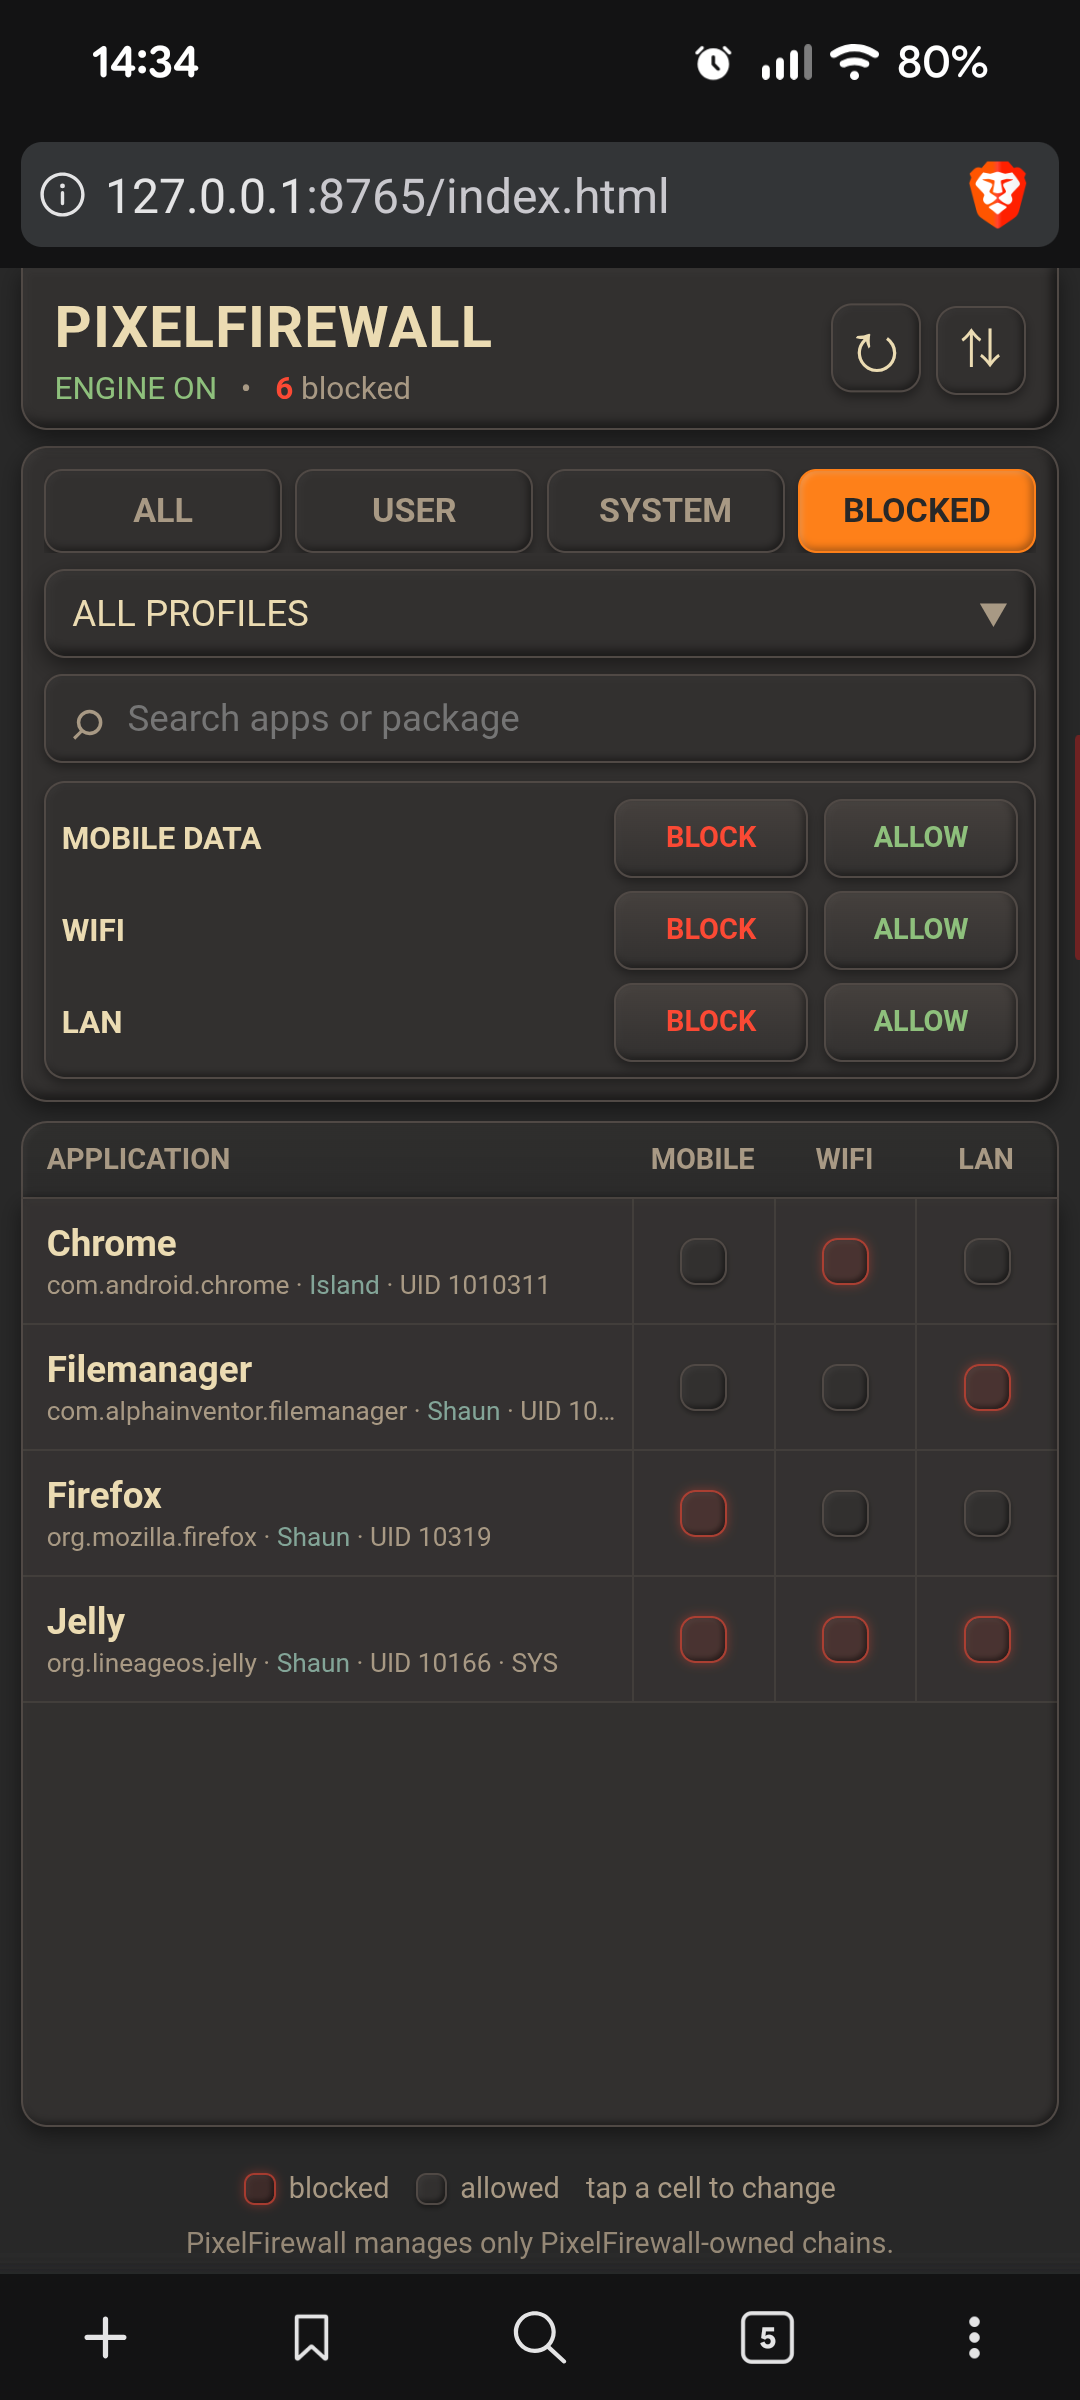
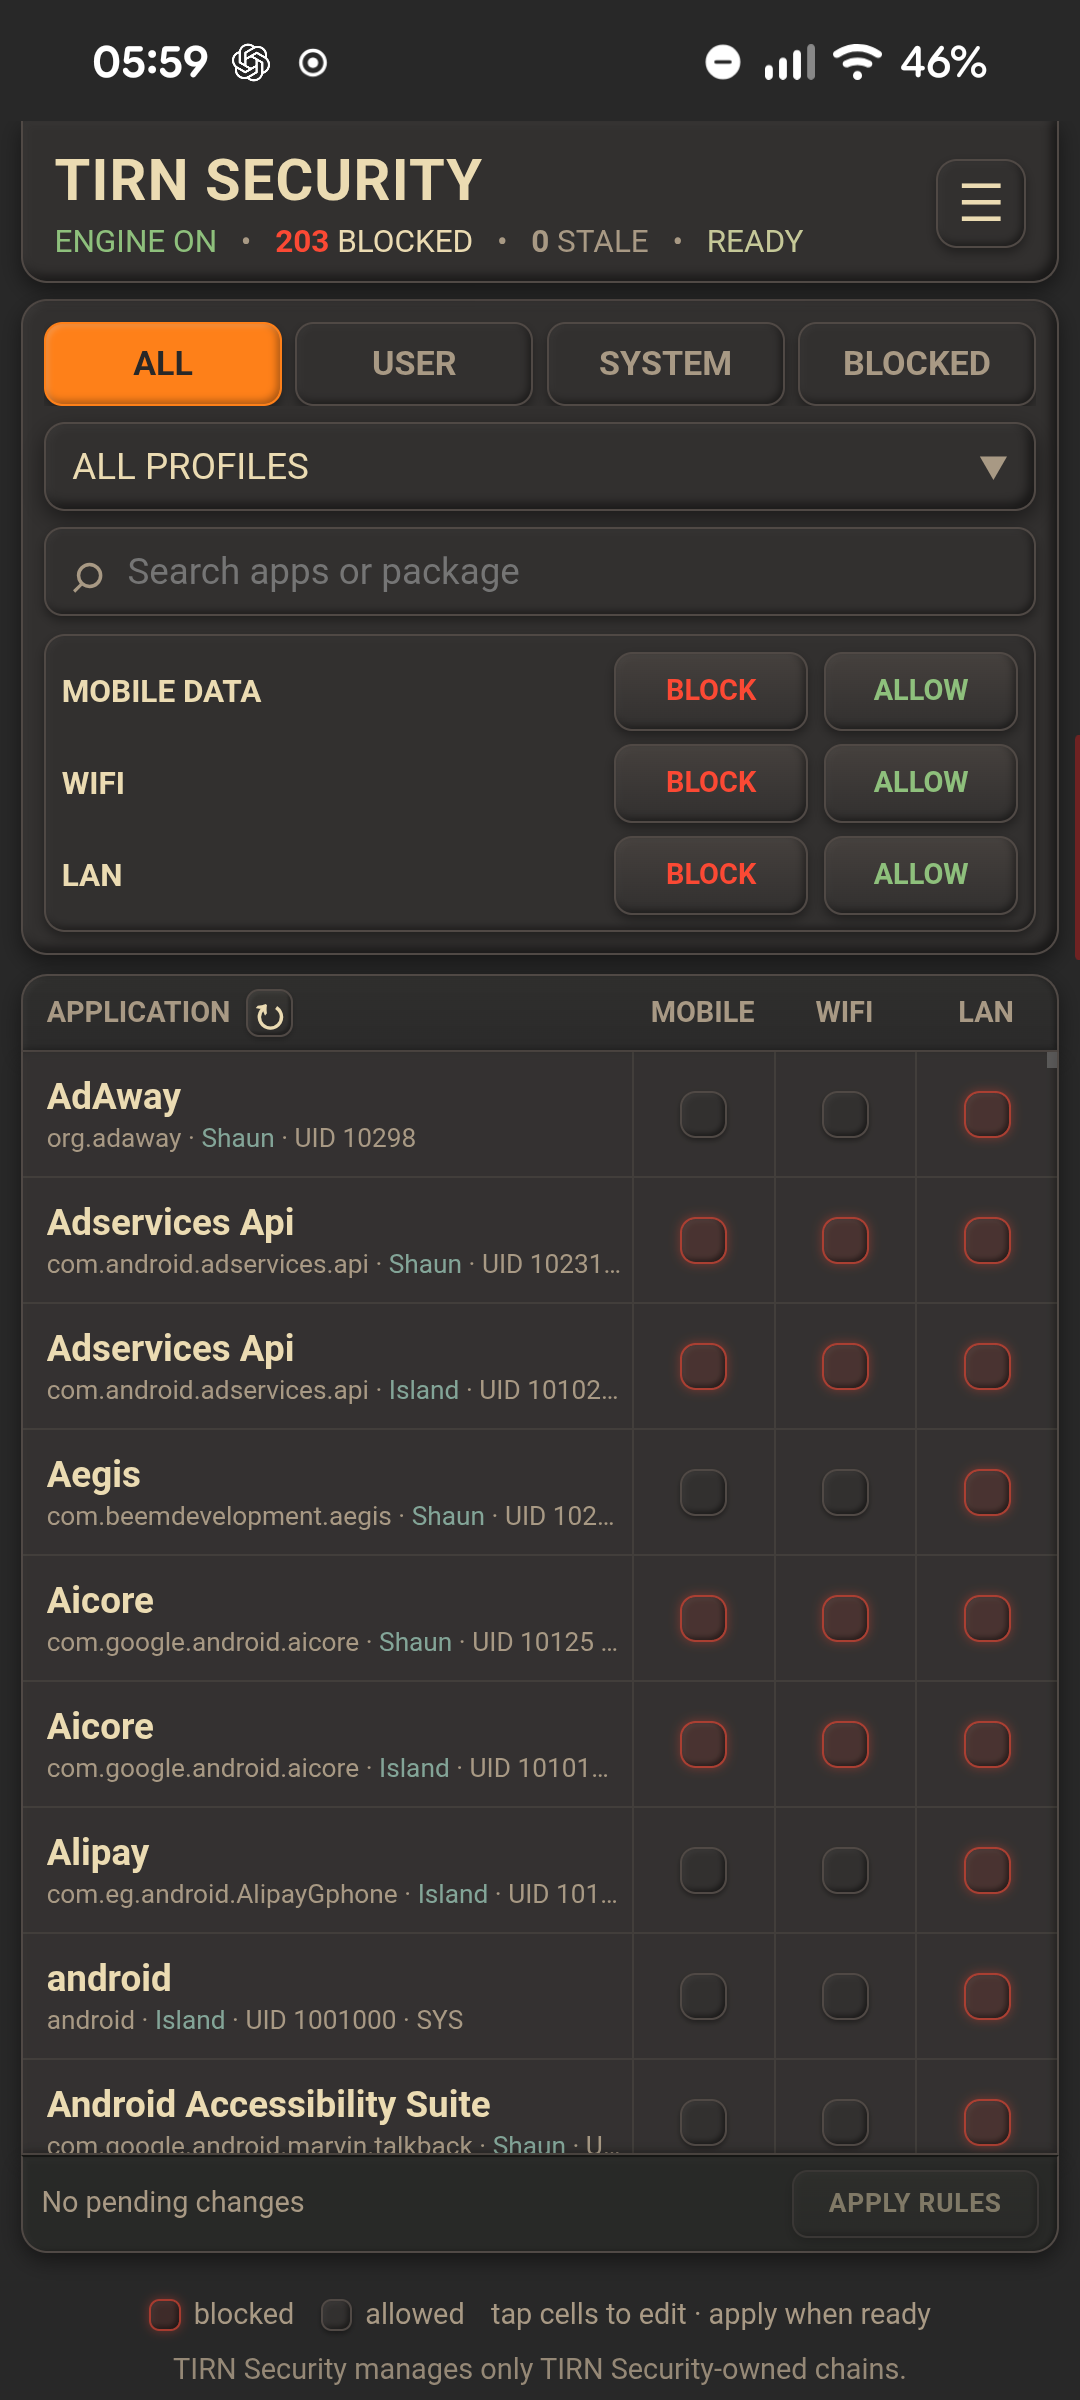
Update v1 release documentation

diff --git a/README.md b/README.md
@@ -37,6 +37,21 @@ multiple Android user profiles and both IPv4 and IPv6.
 - Android device with working `iptables`/`ip6tables` firewall support
 - A modern web browser for the WebUI
 
+### Required Magisk Superuser settings
+
+The following **Magisk → Superuser** settings are required:
+
+**Multiuser mode**
+
+- **Each user has their own separate root rules**
+
+**Mount namespace mode**
+
+- **Root sessions will inherit their requester's namespace**
+
+These settings are required for TIRN Security's per-user application identity
+and firewall handling to operate correctly.
+
 TIRN Security is developed and tested on a rooted Google Pixel 8a.
 
 ## Installation
@@ -145,26 +160,97 @@ The WebUI also provides an option to clear all TIRN Security blocks.
 
 ## How TIRN Security works
 
-TIRN Security maintains its own firewall policy chains and uses
-them to apply application-specific network policies.
+TIRN Security maintains its own firewall policy chains and uses them to
+apply application-specific network policies.
 
-The primary TIRN Security chains are:
+The firewall is organized around a TIRN Security dispatcher and
+generation-based policy chains rather than directly modifying unrelated
+Android firewall rules.
 
-- `TIRNFW`
-- `TIRNFW-MOBILE`
-- `TIRNFW-WIFI`
-- `TIRNFW-LAN`
+Application policies are applied using the application's Android UID.
 
-IPv6 uses the corresponding TIRN Security-owned chains as well.
+Network state is tracked separately from application state. When the
+effective network configuration has not changed, TIRN Security does not
+create another firewall transaction unnecessarily.
 
-The main `TIRNFW` dispatcher determines the appropriate
-TIRN Security network policy chain based on the active network.
+Application package broadcasts are treated as events that trigger
+application-state processing. The authoritative application snapshot
+remains the source of application identity.
 
-Application policies are then applied using the application's
-Android UID.
+Application changes are compared using:
 
-This keeps TIRN Security's policy state separate from unrelated
-Android native firewall configuration.
+`user | package | UID`
+
+An event that does not produce an effective identity change does not
+require an unnecessary firewall generation.
+
+When an effective policy change is required, TIRN Security prepares a new
+firewall generation, verifies it before activation, and then atomically
+switches the active generation.
+
+This keeps policy changes isolated from unrelated Android firewall
+configuration while avoiding unnecessary firewall rebuilds.
+
+## Boot and state convergence
+
+TIRN Security is designed to converge safely after boot and network
+changes.
+
+For an existing installation, the previous valid application state can
+be used to establish the initial firewall state before the authoritative
+application refresh completes.
+
+The refreshed application state is then compared with the previous
+identity snapshot. A second firewall generation is only required when
+the effective application identity or policy state has actually changed.
+
+Network state is handled independently and is deduplicated against the
+persisted network state.
+
+This prevents unchanged application or network state from causing
+unnecessary firewall transactions.
+
+## Policy transaction safety
+
+Policy changes are handled through an authoritative transaction path.
+
+The same authoritative transaction path is used for:
+
+- Individual policy changes
+- Bulk policy changes
+- Clear-all
+- Policy import
+- Stale application reconciliation
+
+A candidate policy is validated before activation.
+
+The firewall generation is built and verified before it becomes active.
+Persistent policy state is also verified as part of the transaction.
+
+If a transaction cannot be completed safely, the existing valid state is
+retained or restored rather than leaving a partially applied policy
+active.
+
+The design is intended to preserve fail-closed behavior during
+unsuccessful or interrupted transactions.
+
+## Application identity and stale policies
+
+TIRN Security maintains an authoritative application identity snapshot
+in addition to the application metadata displayed by the WebUI.
+
+Application identity is based on the Android user/profile, package name,
+and UID.
+
+This allows application additions, removals, updates, replacements, and
+UID changes to be distinguished from events that do not actually change
+the effective application identity.
+
+If an existing policy becomes associated with a missing application or a
+changed UID, it can be identified as stale rather than silently
+reassigned to another application identity.
+
+Stale policies can then be reviewed and reconciled through the WebUI.
 
 ## Firewall scope and safety
 
@@ -177,8 +263,9 @@ Android firewall chains or rules.**
 The WebUI manages TIRN Security policy state rather than directly
 manipulating the device's native firewall configuration.
 
-Policy backup, import, and clear operations likewise operate only
-on TIRN Security policy entries.
+Policy backup, import, clear operations, application events, and
+network changes all converge through TIRN Security's policy and firewall
+transaction mechanisms.
 
 This separation is an important part of TIRN Security's design.
 
@@ -201,6 +288,32 @@ The main interface provides:
 - Policy status and blocked-rule count
 - Backup and restore controls
 - Clear-policy controls
+
+The WebUI communicates with TIRN Security through its local CGI interface.
+
+## Performance and resource usage
+
+TIRN Security's application, network, policy, and firewall processing has
+been optimized to avoid unnecessary repeated work.
+
+The implementation uses:
+
+- Incremental application processing where possible
+- Coalesced package-event handling
+- Authoritative application identity comparison
+- Network-state deduplication
+- Atomic policy transactions
+- Generation verification before activation
+- APK label caching
+- Removal of redundant refresh and generation paths
+- Cleanup of obsolete generated state
+
+Performance validation has included application refresh time, firewall
+generation activity, event processing, idle CPU usage, memory/process
+usage, and practical resource impact.
+
+The optimization work prioritizes eliminating unnecessary processing
+while preserving the safety and atomicity of the firewall architecture.
 
 ## Troubleshooting
 
@@ -246,6 +359,34 @@ networks.
 If a network transition appears to leave an application in the
 wrong state, first refresh the WebUI and verify the current policy.
 
+## Alpha Testing and Feedback
+
+TIRN Security is currently being released for alpha testing.
+
+Please report bugs and technical issues through the project's **GitHub
+Issues**.
+
+When reporting an issue, include as much of the following information as
+possible:
+
+- TIRN Security version
+- Android version
+- Device model
+- Magisk version
+- Steps to reproduce the problem
+- Expected behaviour
+- Actual behaviour
+- Relevant TIRN Security logs
+- Screenshots where applicable
+- The affected application, Android user/profile, and network type where
+  relevant
+
+For firewall or policy issues, include the policy configuration and
+network conditions involved where possible.
+
+GitHub Issues are the authoritative record for alpha-test bugs and
+technical issues.
+
 ## Development
 
 TIRN Security is developed as a Magisk module with its firewall
@@ -260,7 +401,7 @@ The project is developed and tested on-device using a rooted Pixel
 
 ## Project principles
 
-TIRN Security follows a few core principles:
+TIRN Security follows these core principles:
 
 1. **Application-level control**
 
@@ -283,7 +424,27 @@ TIRN Security follows a few core principles:
 
    TIRN Security operates only on its own firewall chains.
 
-6. **Simple management**
+6. **Atomic policy changes**
+
+   Firewall generations are built and verified before activation.
+
+7. **Fail-closed behavior**
+
+   Unsafe or incomplete firewall transactions do not intentionally
+   replace a known valid state with a partially applied policy.
+
+8. **Authoritative application state**
+
+   Application identity is determined from the authoritative application
+   snapshot rather than relying solely on package-event notifications.
+
+9. **Measured optimization**
+
+   Performance improvements are based on measured reductions in
+   unnecessary processing rather than added complexity without a
+   demonstrated benefit.
+
+10. **Simple management**
 
    The WebUI provides a straightforward way to inspect and change
    policies without requiring command-line interaction.
